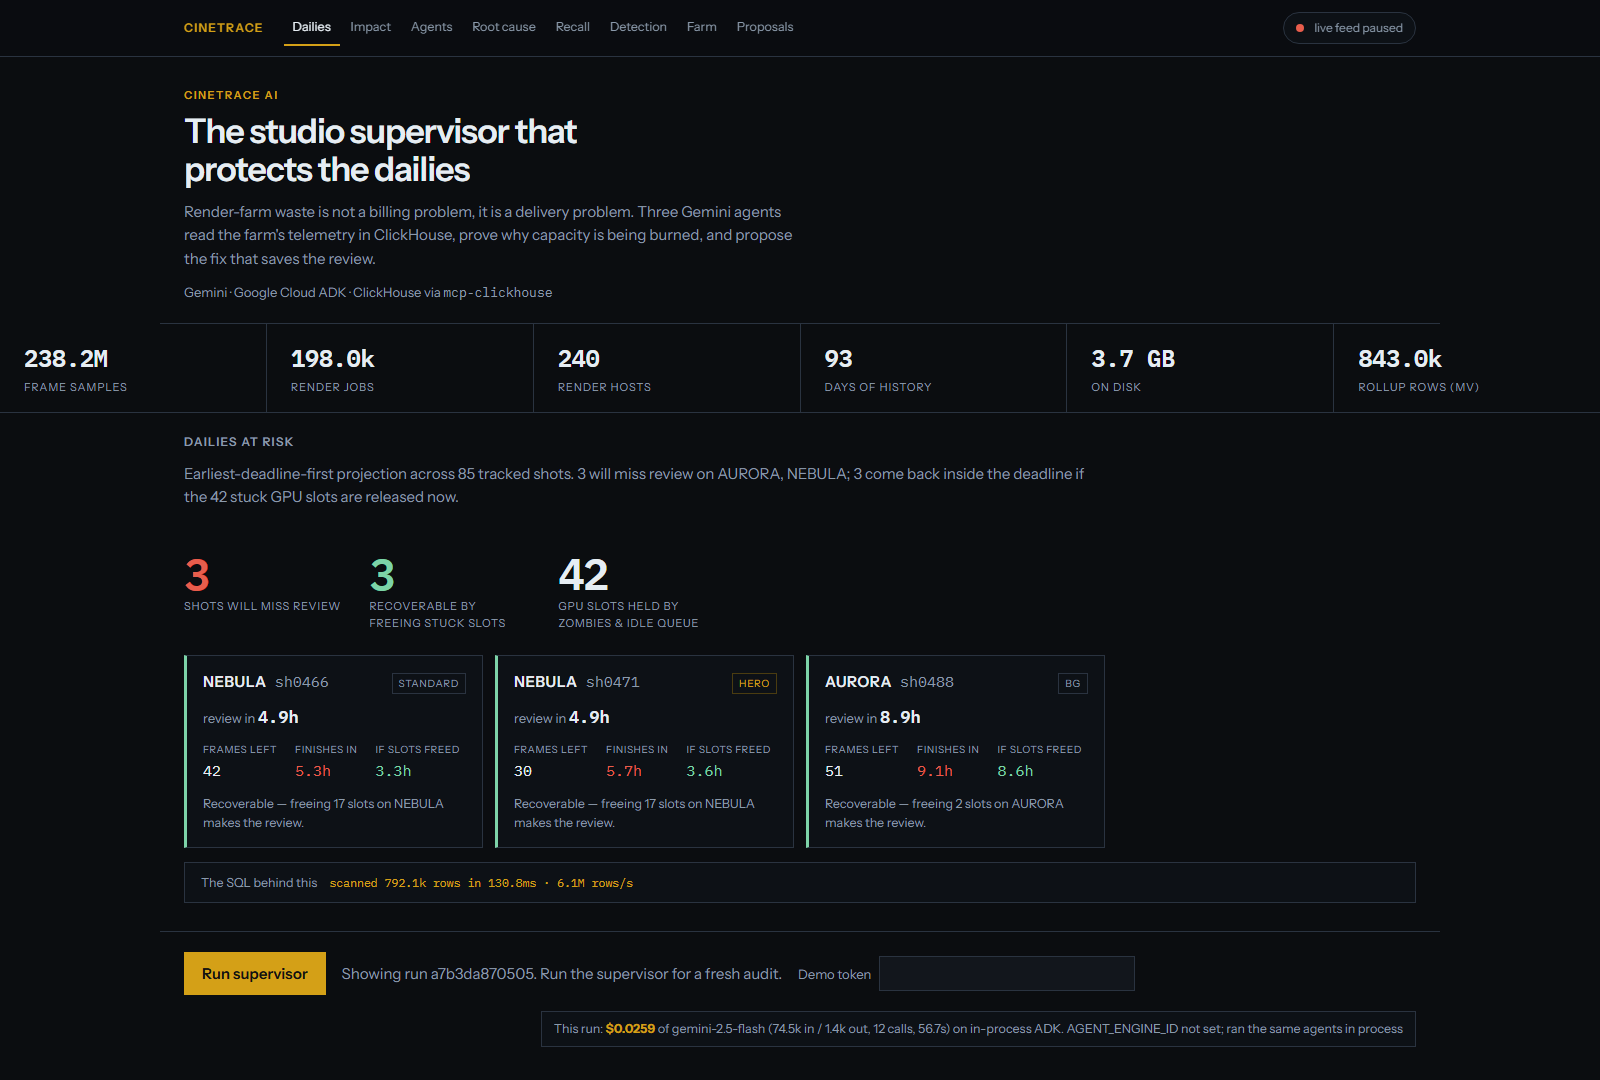
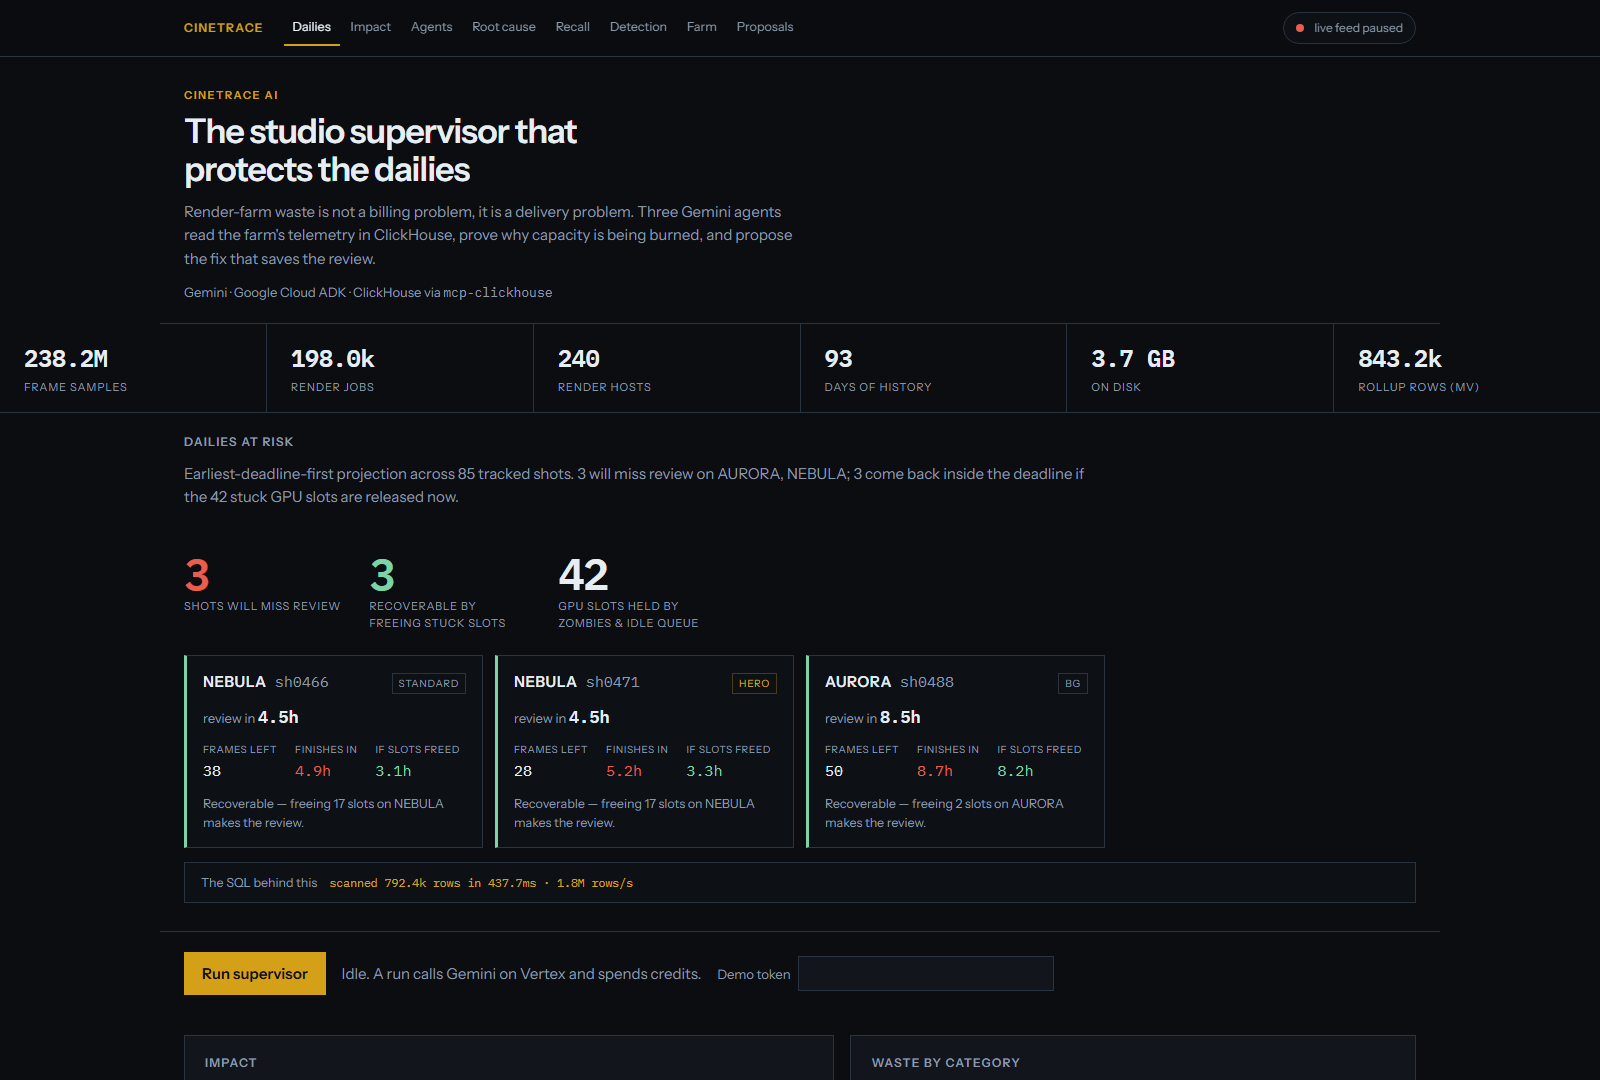
Stop table headers from dropping into the first data row.
The nav-height offset on sticky th was applied against the table wrapper, not the viewport, so every header sat 56px down on top of the first two rows.

Changed region(s): [[0.3438, 0.9472, 0.875, 1.0], [0.2188, 0.8861, 0.5312, 0.9167], [0.125, 0.9778, 0.1562, 1.0]]

diff --git a/src/cinetrace/web/static/style.css b/src/cinetrace/web/static/style.css
@@ -85,8 +85,6 @@ a { color: var(--accent); }
   padding: 8px 12px; font-size: 12px; font-weight: 600;
 }
 .back-top:hover { border-color: var(--accent); }
-/* ?solo hides the nav, so sticky headers must drop back to the viewport top. */
-body:has(.page-nav[hidden]) { --nav-h: 0px; }
 
 /* ------------------------------------------------------------- masthead */
 
@@ -270,7 +268,7 @@ pre code { color: #cfe3f5; }
 .table-wrap { overflow-x: auto; border: 1px solid var(--line); }
 table { border-collapse: collapse; width: 100%; font-size: 12.5px; }
 th, td { text-align: left; padding: 8px 12px; border-bottom: 1px solid var(--line); white-space: nowrap; }
-th { color: var(--muted); font-weight: 500; text-transform: uppercase; font-size: 10.5px; letter-spacing: 0.07em; background: var(--panel-2); position: sticky; top: var(--nav-h); }
+th { color: var(--muted); font-weight: 500; text-transform: uppercase; font-size: 10.5px; letter-spacing: 0.07em; background: var(--panel-2); position: sticky; top: 0; }
 tbody tr:last-child td { border-bottom: 0; }
 tbody tr.hit { background: rgba(212, 160, 23, 0.08); }
 /* Evidence is the only column that can wrap, so it is the one that yields when
